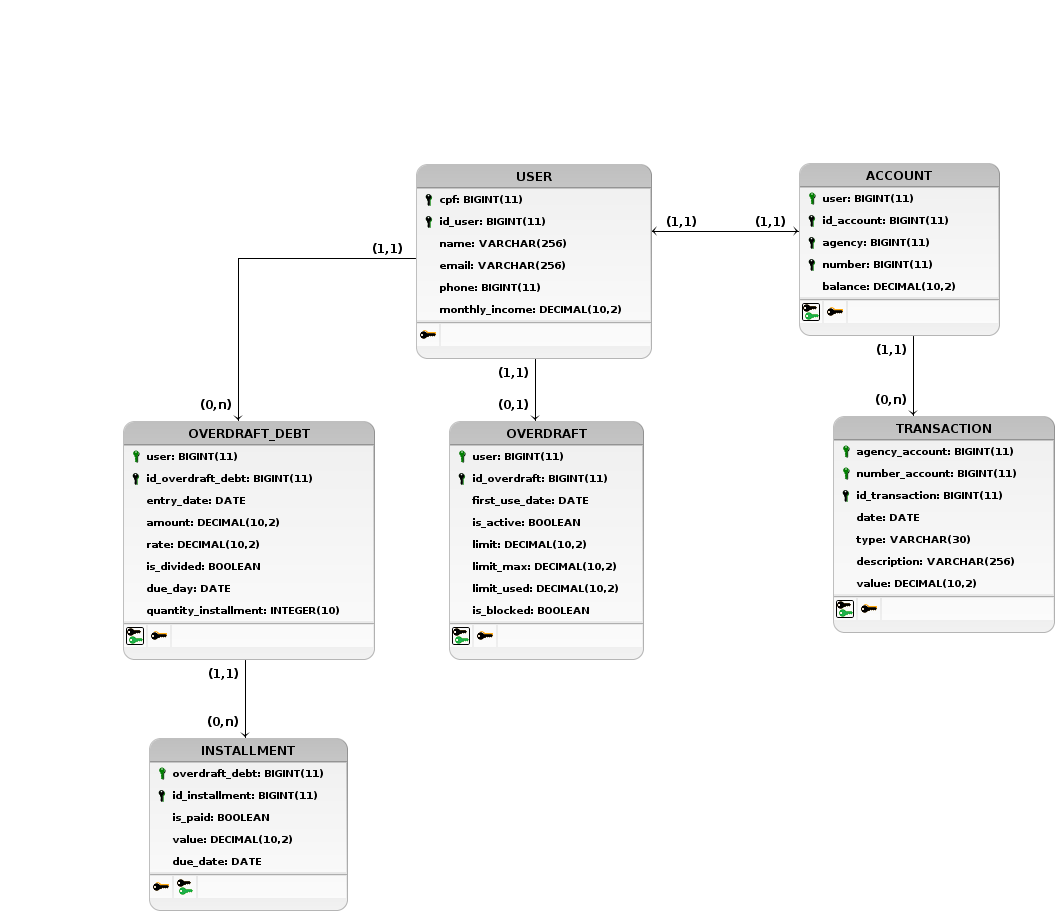
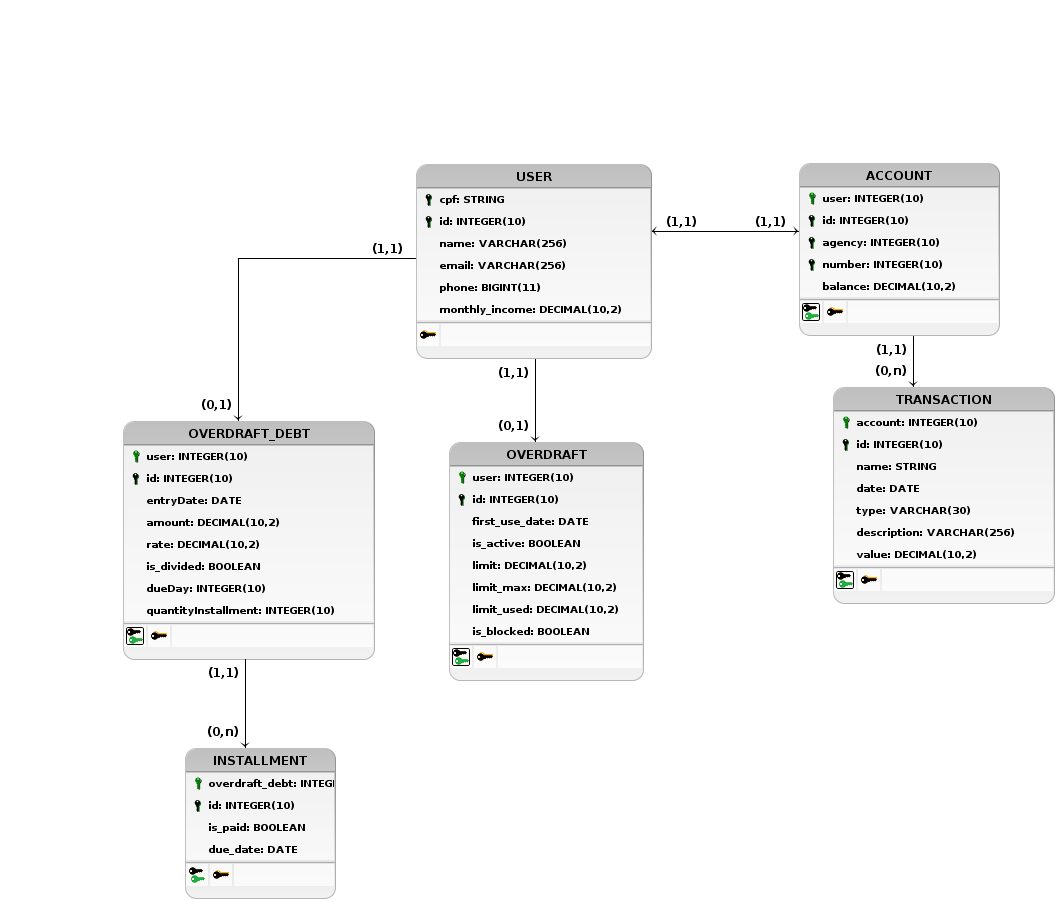
Updating architecture document diagrams.

diff --git a/documentation/architecture.md b/documentation/architecture.md
@@ -18,6 +18,7 @@
 - [6. Desempenho](#_6-desempenho)
 
 - [7. Qualidade](#_7-qualidade)
+- [Histórico de Versões](#_histórico-de-versões)
 
 ## 1. Introdução
 
@@ -301,3 +302,4 @@ O código deverá ser bem estruturado, seguindo as normas de Boas Práticas de p
 | 02/10/2019 | 1.6 | Natália Rodrigues | Modificando diagrama e descrição dos casos de uso |
 | 02/10/2019 | 1.7 | Natália Rodrigues | Atualizando diagramas de classe e lógico e adicionando diagrama de pacotes | 
 | 07/10/2019 | 1.8 | Maria Luiza | Ajustando imagens do documento | 
+| 27/11/2019 | 1.9 | Natália | Atualizando diagramas |

diff --git a/branches-structure.md b/branches-structure.md
@@ -8,6 +8,7 @@
     * [2.3. Fluxo de adição de uma nova funcionalidade](#_23-Fluxo-de-adição-de-uma-nova-funcionalidade)
     * [2.4. Fluxo de adição de documentos](#_24-Fluxo-de-adição-de-documentos)
 * [3. Referências](#_3-Referências)
+* [Histórico de Versões](#_histórico-de-versões)
     
 
 # 1. Estrutura de branches

diff --git a/documentation/vision.md b/documentation/vision.md
@@ -26,6 +26,7 @@
   * [6.3. Restrições de Segurança](#63-restrições-de-segurança)
   * [6.4. Restrições de Uso](#64-restrições-de-uso)
 - [7. Intervalos de Qualidade](#7-intervalos-de-qualidade)
+- [Histórico de Versões](#_histórico-de-versões)
 
 ## 1. Introdução
 

diff --git a/style-sheet.md b/style-sheet.md
@@ -18,6 +18,7 @@
     * [4.4. Comentários](#_44-Comentários)
 * [5. Recomendações](#_5-Recomendações)
 * [6. Referências](#_6-Referências)
+* [Histórico de Versões](#_histórico-de-versões)
 
 # 1. Introdução
 
